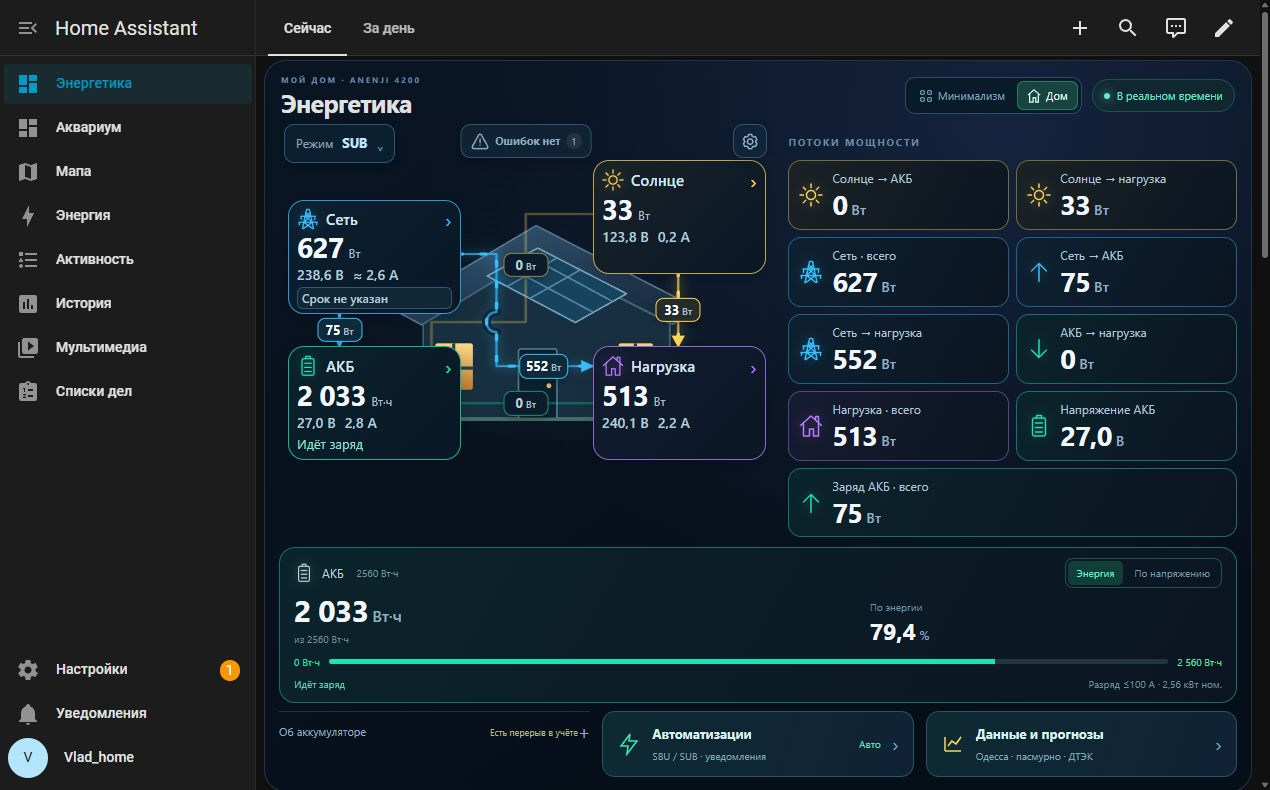
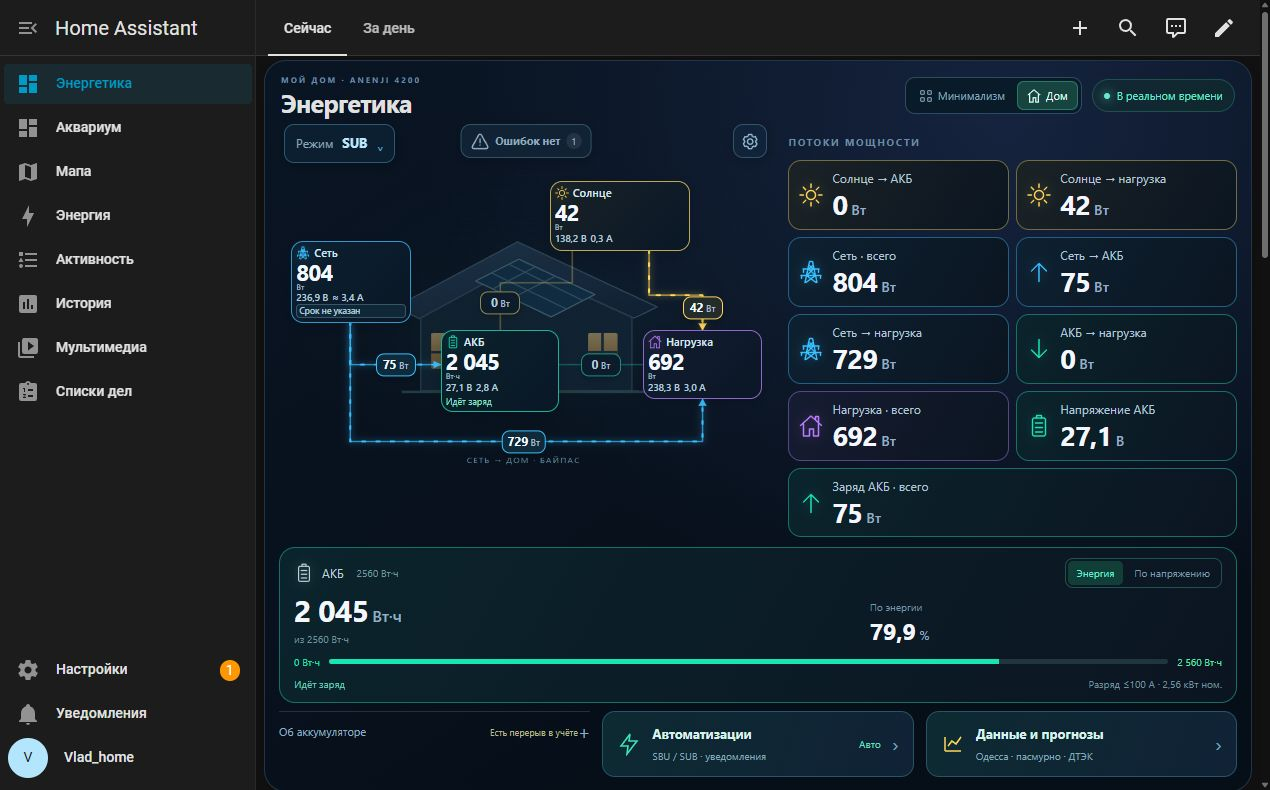
Restore reference house layout with wider battery to load spacing

diff --git a/energetika-card.js b/energetika-card.js
@@ -9,7 +9,7 @@ export function formatRuntime(minutes) {
   const total=Math.floor(minutes);
   return total===0?'0 мин':`${Math.floor(total/60)} ч ${String(total%60).padStart(2,'0')} мин`;
 }
-/* Energetika 2.12.1 — local Home Assistant card, no external dependencies. */
+/* Energetika 2.12.2 — local Home Assistant card, no external dependencies. */
 const ROOT = 'sensor.anenji_4200_protocol_1_';
 const SOURCE_MODES = [
   {code:'UTI', option:'Utility First (UTI)', description:'Сеть в приоритете'},
@@ -52,14 +52,16 @@ const value = (key, unit = 'Вт') => `<span data-value="${key}">—</span><span
 // Both views use the same elements, live values and graph handlers.
 const VISUAL_LAYOUTS = {
   minimal:{
+    size:[440,300],
     nodes:{grid:[8,0,164],solar:[268,0,164],battery:[8,154,164],load:[268,154,164]},
     flows:{grid_battery:['M54 114V154',54,134],pv_battery:['M268 54H220V135H136V154',220,105],pv_load:['M350 114V154',350,134],grid_load:['M172 54H194V125C182 125 182 145 194 145V174H268',230,174],battery_load:['M172 211H268',220,211]},
     crossing:'M194 125C182 125 182 145 194 145',
   },
   home:{
-    nodes:{grid:[8,40,154],solar:[280,0,154],battery:[8,186,154],load:[280,186,154]},
-    flows:{grid_battery:['M54 154V186',54,170],pv_battery:['M280 54H220V162H136V186',220,105],pv_load:['M356 114V186',356,150],grid_load:['M162 94H194V152C182 152 182 172 194 172V206H280',236,206],battery_load:['M162 243H280',220,243]},
-    crossing:'M194 152C182 152 182 172 194 172',
+    size:[720,500],
+    nodes:{grid:[18,130,174,132],solar:[395,34,205,112],battery:[236,274,172,132],load:[531,274,174,112]},
+    flows:{grid_battery:['M104 262V330H236',170,330],pv_battery:['M428 146V198H323V274',323,230],pv_load:['M540 146V218H618V274',618,238],grid_load:['M104 262V454H618V386',357,454],battery_load:['M408 330H531',469.5,330]},
+    crossing:'',
   },
 };
 
@@ -103,10 +105,10 @@ class EnergetikaCard extends HTMLElement {
     return `<button class="tile ${color}" data-key="${key}" title="Открыть историю: ${title}">${icon(ic)}<span class="tile-body"><span class="tile-title">${title}</span><strong>${value(key)}</strong><small>${subtitle}</small></span><span class="arrow">›</span></button>`;
   }
   _houseScene() {
-    return `<svg class="house-scene" viewBox="0 0 440 300" aria-hidden="true" focusable="false">
+    return `<svg class="house-scene" viewBox="0 0 720 500" preserveAspectRatio="none" aria-hidden="true" focusable="false">
       <defs><linearGradient id="house-roof" x2="1" y2="1"><stop stop-color="#365875"/><stop offset="1" stop-color="#14253a"/></linearGradient><linearGradient id="house-window" x2="0" y2="1"><stop stop-color="#ffdb8a"/><stop offset="1" stop-color="#c07b2b"/></linearGradient><radialGradient id="house-halo"><stop stop-color="#30bfa3" stop-opacity=".22"/><stop offset="1" stop-color="#081421" stop-opacity="0"/></radialGradient></defs>
-      <ellipse cx="248" cy="191" rx="182" ry="108" fill="url(#house-halo)"/>
-      <g transform="translate(-48 -40) scale(.8)" stroke-linejoin="round">
+      <ellipse cx="365" cy="280" rx="280" ry="150" fill="url(#house-halo)"/>
+      <g stroke-linejoin="round">
         <path d="M170 237 348 132 552 237 518 255 348 170 205 256Z" fill="url(#house-roof)" stroke="#557890" stroke-width="2"/>
         <path d="M207 255v118h308V254L348 170Z" fill="#172f40" stroke="#426376" stroke-width="2"/>
         <path d="M210 373h315" stroke="#557f82" stroke-width="3"/>
@@ -120,16 +122,19 @@ class EnergetikaCard extends HTMLElement {
   }
   _applyVisualMode() {
     const r=this.shadowRoot,layout=VISUAL_LAYOUTS[this._visualMode];
+    const [boxWidth,boxHeight]=layout.size;
     r.querySelector('.shell').dataset.visual=this._visualMode;
+    r.querySelector('svg.diagram').setAttribute('viewBox',`0 0 ${boxWidth} ${boxHeight}`);
     r.querySelectorAll('[data-visual-mode]').forEach(button=>button.setAttribute('aria-pressed',String(button.dataset.visualMode===this._visualMode)));
-    for(const [key,[x,y,width]] of Object.entries(layout.nodes)){
+    for(const [key,[x,y,width,height=114]] of Object.entries(layout.nodes)){
       const node=r.querySelector(`.node[data-key="${key}"]`);
-      node.style.left=x/440*100+'%';node.style.top=y/300*100+'%';node.style.width=width/440*100+'%';
+      node.style.left=x/boxWidth*100+'%';node.style.top=y/boxHeight*100+'%';node.style.width=width/boxWidth*100+'%';
+      node.style.height=height/boxHeight*100+'%';node.style.setProperty('--node-height',height/boxHeight*100+'%');
     }
     for(const [key,[path,x,y]] of Object.entries(layout.flows)){
       const flow=r.querySelector(`g.flow[data-flow="${key}"]`);
       flow.querySelectorAll('.track,.wire,.moving').forEach(line=>line.setAttribute('d',path));
-      const label=r.querySelector(`.flow-label[data-flow="${key}"]`);label.style.left=x/440*100+'%';label.style.top=y/300*100+'%';
+      const label=r.querySelector(`.flow-label[data-flow="${key}"]`);label.style.left=x/boxWidth*100+'%';label.style.top=y/boxHeight*100+'%';
     }
     r.querySelector('.crossing-gap').setAttribute('d',layout.crossing);
   }
@@ -201,6 +206,12 @@ class EnergetikaCard extends HTMLElement {
       @media(max-width:750px){.header-tools{gap:6px}.header-tools .live{width:19px;height:19px;justify-content:center;padding:0}.header-tools [data-live-text]{position:absolute;width:1px;height:1px;overflow:hidden;clip-path:inset(50%);white-space:nowrap}.visual-switch{padding:2px;border-radius:8px}.visual-switch button{min-height:27px;padding:3px 7px;font-size:10px;gap:4px}.visual-switch button svg{width:12px;height:12px}}
       @media(max-width:390px){.header-tools{gap:4px}.visual-switch button{padding:3px 5px;gap:3px}.visual-switch button svg{display:none}}
       @media(orientation:landscape) and (min-width:640px) and (max-height:600px){.header-tools{position:absolute;top:5px;left:145px;right:auto;gap:0}.header-tools .live{display:none}.visual-switch{padding:1px;border-radius:7px}.visual-switch button{min-height:24px;padding:2px 7px;font-size:10px;gap:4px}.visual-switch button svg{width:12px;height:12px}.shell[data-visual=home] .diagram-stage>.node{height:38%!important}.shell[data-visual=home] .node>.node-metrics{gap:4px}}
+      /* The Home view follows the original house scene, with a wider battery-to-load gap. */
+      .home-route-caption{display:none;fill:#68869d;font-size:12px;letter-spacing:2px;text-anchor:middle}.shell[data-visual=home] .home-route-caption{display:block}.shell[data-visual=home] .house-scene{opacity:.45}.shell[data-visual=home] .diagram-stage{height:clamp(310px,38dvh,340px);min-height:310px;max-height:none;aspect-ratio:auto}
+      .shell[data-visual=home] .diagram-stage>.node{height:var(--node-height)!important;padding:4px;gap:1px;border-radius:12px}.shell[data-visual=home] .node-heading{min-height:14px;gap:4px}.shell[data-visual=home] .node-heading .node-name{font-size:11px}.shell[data-visual=home] .node-symbol>.icon,.shell[data-visual=home] .node-symbol>.grid-cross{width:14px;height:14px}.shell[data-visual=home] .node-chevron{display:none}.shell[data-visual=home] .node-reading{flex-wrap:wrap;gap:0 3px}.shell[data-visual=home] .node-reading .node-value{font-size:22px;line-height:1}.shell[data-visual=home] .node-reading .node-unit{width:100%;font-size:8px;line-height:1.1}.shell[data-visual=home] .node>.node-metrics{font-size:9.5px;line-height:1.1;gap:4px}.shell[data-visual=home] .node>.node-runtime{font-size:9px;line-height:1.1}.shell[data-visual=home] .node>.grid-timer{font-size:8.5px;line-height:1.1;padding:1px 2px;border-radius:4px}.shell[data-visual=home] .diagram-stage>.flow-label{min-width:40px;font-size:12px;padding:4px 5px}.shell[data-visual=home] .flow-label .flow-unit{font-size:9px}
+      @media(max-width:750px){.shell[data-visual=home] .diagram-stage{height:310px;min-height:310px}}
+      @media(max-width:390px){.shell[data-visual=home] .node-reading .node-value{font-size:20px}.shell[data-visual=home] .node>.node-metrics{font-size:9px;gap:3px}.shell[data-visual=home] .node>.node-runtime{font-size:8.5px}.shell[data-visual=home] .node>.grid-timer{font-size:8px}.shell[data-visual=home] .diagram-stage>.flow-label{min-width:36px;font-size:11px;padding:4px}}
+      @media(orientation:landscape) and (min-width:640px) and (max-height:600px){.shell[data-visual=home] .diagram-stage{height:100%;min-height:0}.shell[data-visual=home] .diagram-stage>.node{min-height:50px;padding:2px;gap:0;border-radius:8px}.shell[data-visual=home] .diagram-stage>.node[data-key=battery],.shell[data-visual=home] .diagram-stage>.node[data-key=grid]{min-height:60px}.shell[data-visual=home] .node-heading{min-height:12px;gap:3px}.shell[data-visual=home] .node-heading .node-name{font-size:10px}.shell[data-visual=home] .node-symbol>.icon,.shell[data-visual=home] .node-symbol>.grid-cross{width:12px;height:12px}.shell[data-visual=home] .node-reading{flex-wrap:nowrap;gap:2px}.shell[data-visual=home] .node-reading .node-value{font-size:18px}.shell[data-visual=home] .node-reading .node-unit{width:auto;font-size:8px}.shell[data-visual=home] .node>.node-metrics{font-size:8.5px;gap:3px}.shell[data-visual=home] .node>.node-runtime{font-size:8.5px}.shell[data-visual=home] .node>.grid-timer{font-size:8px;padding:0 2px}.shell[data-visual=home] .diagram-stage>.flow-label{min-width:32px;padding:2px 3px;font-size:10px}.shell[data-visual=home] .flow-label .flow-unit{font-size:8px}}
     </style>
     <ha-card class="shell"><div class="first-screen"><header><div class="energy-heading"><div class="eyebrow">МОЙ ДОМ · ANENJI 4200</div><h1>Энергетика</h1><div class="sub">Солнце, сеть и энергия вашего дома</div></div><div class="header-tools"><div class="visual-switch" role="group" aria-label="Вид энергомониторинга"><button data-visual-mode="minimal" aria-pressed="true" title="Крупные плитки и простая схема"><svg viewBox="0 0 16 16" fill="none" stroke="currentColor" stroke-width="1.3" aria-hidden="true"><rect x="2" y="2" width="4" height="4" rx="1"/><rect x="10" y="2" width="4" height="4" rx="1"/><rect x="2" y="10" width="4" height="4" rx="1"/><rect x="10" y="10" width="4" height="4" rx="1"/></svg>Минимализм</button><button data-visual-mode="home" aria-pressed="false" title="Дом и анимированные потоки энергии"><svg viewBox="0 0 16 16" fill="none" stroke="currentColor" stroke-width="1.3" aria-hidden="true"><path d="m1 7 7-6 7 6M3 6v9h4v-5h3v5h3V6"/></svg>Дом</button></div><span class="live" data-live><span class="dot"></span><span data-live-text>Подключение</span></span></div></header>
     <div class="overview">
@@ -214,6 +225,7 @@ class EnergetikaCard extends HTMLElement {
       ${this._flow('pv_load','M350 114V154','solar')}
       ${this._flow('grid_load','M172 54H194V125C182 125 182 145 194 145V174H268','grid')}
       ${this._flow('battery_load','M172 211H268','battery')}
+      <text class="home-route-caption" x="357" y="489">СЕТЬ → ДОМ · БАЙПАС</text>
     </svg>
       ${this._node('grid','Сеть','grid',8,0,164,'grid')}
       ${this._node('solar','Солнце','sun',268,0,164,'solar')}
@@ -262,6 +274,7 @@ class EnergetikaCard extends HTMLElement {
       this._visualMode=button.dataset.visualMode;
       try {localStorage.setItem('energetika.visual-mode',this._visualMode);} catch {}
       this._applyVisualMode();
+      this._update();
     }));
     this._applyVisualMode();
     const gridTimer=root.querySelector('[data-grid-timer]');
@@ -350,7 +363,7 @@ class EnergetikaCard extends HTMLElement {
     const minutes=this._number('runtime');
     const power=this._number('battery_power');
     const timeText=minutes!==null?formatRuntime(minutes):power!==null&&power>5?'Идёт заряд':power!==null&&Math.abs(power)<=5?'Нет разряда':'Нет данных';
-    r.querySelectorAll('[data-runtime]').forEach(el=>el.textContent=minutes!==null?`До 20% · ${timeText}`:timeText);
+    r.querySelectorAll('[data-runtime]').forEach(el=>el.textContent=minutes!==null?`${this._visualMode==='home'&&el.closest('.node')?'20%':'До 20%'} · ${timeText}`:timeText);
     const energy=states[this._entities.battery],message=r.querySelector('[data-calibration]');
     const uncalibrated=this._number('battery')===null;
     const gap=energy?.attributes?.data_gap===true;

diff --git a/build_deploy.py b/build_deploy.py
@@ -39,7 +39,7 @@ def main():
     control_module.install(root)
     backup=root/('energetika-ui-backup-'+datetime.now(timezone.utc).strftime('%%Y%%m%%dT%%H%%M%%SZ'))
     backup.mkdir()
-    for name,destination in [('energetika.yaml','energetika.yaml'),('energetika-card.js','www/energetika-card.js'),('energetika-card.js','www/energetika-card-2.12.1.js'),('energetika-history.js','www/energetika-history.js'),('energetika-settings.js','www/energetika-settings.js'),('energetika-automation.js','www/energetika-automation.js'),('energetika-data.js','www/energetika-data.js'),('energetika-alerts.js','www/energetika-alerts.js'),('energetika-hourly.js','www/energetika-hourly.js'),('energetika-dtek.js','www/energetika-dtek.js')]+[(name,name) for name in files if name.startswith('custom_components/energetika_dtek/')]:
+    for name,destination in [('energetika.yaml','energetika.yaml'),('energetika-card.js','www/energetika-card.js'),('energetika-card.js','www/energetika-card-2.12.2.js'),('energetika-history.js','www/energetika-history.js'),('energetika-settings.js','www/energetika-settings.js'),('energetika-automation.js','www/energetika-automation.js'),('energetika-data.js','www/energetika-data.js'),('energetika-alerts.js','www/energetika-alerts.js'),('energetika-hourly.js','www/energetika-hourly.js'),('energetika-dtek.js','www/energetika-dtek.js')]+[(name,name) for name in files if name.startswith('custom_components/energetika_dtek/')]:
         path=root/destination
         if path.is_symlink():raise SystemExit('Refusing symlink: '+str(path))
         path.parent.mkdir(parents=True,exist_ok=True)
@@ -51,7 +51,7 @@ def main():
         temporary.write_text(files[name],encoding='utf-8')
         temporary.replace(path)
     print('UI and YAML installed; backup:',backup)
-    print('Restart Home Assistant; update resource URL to /local/energetika-card-2.12.1.js')
+    print('Restart Home Assistant; update resource URL to /local/energetika-card-2.12.2.js')
 if __name__=='__main__': main()
 ''' % payload
 Path('.deploy').mkdir(exist_ok=True)

diff --git a/docs/INSTALL.uk.md b/docs/INSTALL.uk.md
@@ -35,7 +35,7 @@ homeassistant:
 
 Не створюйте другу секцію `homeassistant`. Якщо пакети вже підключені каталогом, скористайтеся наявною схемою.
 
-Скопіюйте **вісім** файлів `energetika-card.js`, `energetika-history.js`, `energetika-settings.js`, `energetika-automation.js`, `energetika-data.js`, `energetika-alerts.js`, `energetika-hourly.js` та `energetika-dtek.js` до `www`. Створіть у `www` також копію `energetika-card.js` з назвою `energetika-card-2.12.1.js` для головного ресурсу. Головна картка імпортує історію та налаштування відносними шляхами. У Налаштування → Інформаційні панелі → Ресурси додайте `/local/energetika-card-2.12.1.js`, тип **Модуль JavaScript**. Додаткові ресурси для імпортованих модулів не потрібні.
+Скопіюйте **вісім** файлів `energetika-card.js`, `energetika-history.js`, `energetika-settings.js`, `energetika-automation.js`, `energetika-data.js`, `energetika-alerts.js`, `energetika-hourly.js` та `energetika-dtek.js` до `www`. Створіть у `www` також копію `energetika-card.js` з назвою `energetika-card-2.12.2.js` для головного ресурсу. Головна картка імпортує історію та налаштування відносними шляхами. У Налаштування → Інформаційні панелі → Ресурси додайте `/local/energetika-card-2.12.2.js`, тип **Модуль JavaScript**. Додаткові ресурси для імпортованих модулів не потрібні.
 
 При першому створенні `www` може знадобитися перезапуск. Перевірте конфігурацію через інструменти YAML перед перезапуском.
 
@@ -83,7 +83,7 @@ homeassistant:
 
 Для іншої установки адаптуйте координати міста, часовий пояс, потужність та кут панелей, діапазон фону, резерв і префікси. Значення 2,52 кВт задано у формулах YAML та підписах JS. Усі сутності пакета мають префікс `energetika_`; головні: `sensor.energetika_solar_strategy`, `input_boolean.energetika_solar_auto`, `input_boolean.energetika_solar_fault`, `input_text.energetika_solar_result`.
 
-Після оновлення перевірте YAML, перезапустіть HA, оновіть ресурс картки до **2.12.1** та перезавантажте браузер. Перевіряйте готовність за реальними даними; не змінюйте режими інвертора, зарядні налаштування або показання датчиків лише для демонстрації.
+Після оновлення перевірте YAML, перезапустіть HA, оновіть ресурс картки до **2.12.2** та перезавантажте браузер. Перевіряйте готовність за реальними даними; не змінюйте режими інвертора, зарядні налаштування або показання датчиків лише для демонстрації.
 
 Створіть окрему панель, відкрийте редагування → текстовий редактор і вставте `dashboard-energetika.yaml`. Збережіть та завершіть редагування. Оновіть сторінку й фронтенд телефонного застосунку, щоб завантажився новий JS.
 
@@ -213,7 +213,7 @@ REST-запит тепер також отримує погодинні `tempera
 
 Текст плашок і потоків тепер є звичайними HTML-елементами над SVG зі стрілками. На ширині телефону 411 px напруга й струм мають розмір 14 px, таймер АКБ — 13 px, мережі — 12 px; для ширини до 390 px передбачено компактніші відступи й текст. Схема має мінімальну висоту 270 px, тому браузер не стискає підписи до нерозбірливого розміру. Нижні дев'ять плиток і блок АКБ збережені. [Знімок реального HA в області 411 × 850](screenshots/mobile-energy-readable.jpg) показує всі ці показники на першому екрані. За іншого масштабу шрифтів або меншої висоти доступна звичайна прокрутка.
 
-Оновіть `energetika-card.js`, ресурс до `/local/energetika-card-2.12.1.js` і перезавантажте сторінку або екран Companion App. Це зміна інтерфейсу; перезапуск HA для неї не потрібен.
+Оновіть `energetika-card.js`, ресурс до `/local/energetika-card-2.12.2.js` і перезавантажте сторінку або екран Companion App. Це зміна інтерфейсу; перезапуск HA для неї не потрібен.
 
 ## Горизонтальний телефон і комп’ютер · 2.10.2
 
@@ -227,7 +227,7 @@ REST-запит тепер також отримує погодинні `tempera
 
 ## Графіки з плиток і окремі дані · 2.11.0
 
-Замініть `energetika-card.js`, `energetika-history.js`, `energetika-automation.js` та додайте новий **`energetika-data.js`** до `www`. Змініть ресурс на `/local/energetika-card-2.12.1.js` і перезавантажте екран. Головна картка імпортує нові версії модулів сама. Перезапуск HA та зміна YAML для цього оновлення не потрібні.
+Замініть `energetika-card.js`, `energetika-history.js`, `energetika-automation.js` та додайте новий **`energetika-data.js`** до `www`. Змініть ресурс на `/local/energetika-card-2.12.2.js` і перезавантажте екран. Головна картка імпортує нові версії модулів сама. Перезапуск HA та зміна YAML для цього оновлення не потрібні.
 
 Мережа → навантаження проходить ламаною лінією через середину схеми. На перетині із сонячним зарядом АКБ є вигин із проміжком; лінії не позначають спільний електричний вузол. Число на новій лінії відкриває історію мережевого живлення будинку.
 
@@ -239,12 +239,12 @@ REST-запит тепер також отримує погодинні `tempera
 
 [Схема з центральною лінією](screenshots/energy-central-flows.jpg) · [Графік АКБ](screenshots/battery-flow-dialog.jpg) · [Дані та прогнози](screenshots/data-forecast-panel.jpg).
 
-## Два види схеми · 2.12.1
+## Два види схеми · 2.12.2
 
-Вгорі головної картки є перемикач **«Минимализм / Дом»**. Перший вид зберігає великі плитки й просту схему. Другий повертає векторний будинок з панелями та освітленими вікнами на фоні: мережа ліворуч, сонце вгорі праворуч, АКБ та навантаження внизу. Лінії переміщуються разом із плашками; перетин мережі й сонячного заряду зберігає вигин із проміжком.
+Вгорі головної картки є перемикач **«Минимализм / Дом»**. Перший вид зберігає великі плитки й просту схему. Другий повторює початковий ескіз: мережа ліворуч від будинку, сонце вгорі праворуч, АКБ ближче до середини та навантаження праворуч. Байпас проходить під будинком. АКБ посунута ліворуч: між її краєм і навантаженням 123 одиниці схеми замість початкових 81, приблизно 67 px в області 411 px. Підпис потужності стоїть посередині цього проміжку й не перекриває плашки. Лінії переміщуються разом із ними. У мінімалістичному виді залишається центральна лінія мережі з вигином на перетині.
 
 Обидва види користуються тими самими сутностями, графіками й елементами даних. Перемикання не перебудовує картку. Перевага зберігається локально в `energetika.visual-mode`, окремо від способу оцінки АКБ. На новому пристрої початковий вид — «Минимализм». На телефоні стан зв’язку показаний кольоровою крапкою, а текстові показники залишаються HTML, тому не зменшуються разом із SVG.
 
-Для оновлення замініть `energetika-card.js` у `www` і створіть поруч його копію **`energetika-card-2.12.1.js`**. Змініть наявний ресурс на `/local/energetika-card-2.12.1.js` і перезавантажте панель. Використовуйте один головний ресурс картки. Офлайн-встановлювач створює обидва файли; імпорти інших модулів залишаються відносними. Зміна імені основного ресурсу усуває проблему старої копії у кеші, помічену під час встановлення. Перезапуск HA для цього інтерфейсного оновлення не потрібен.
+Для оновлення замініть `energetika-card.js` у `www` і створіть поруч його копію **`energetika-card-2.12.2.js`**. Змініть наявний ресурс на `/local/energetika-card-2.12.2.js` і перезавантажте панель. Використовуйте один головний ресурс картки. Офлайн-встановлювач створює обидва файли; імпорти інших модулів залишаються відносними. Зміна імені основного ресурсу усуває проблему старої копії у кеші, помічену під час встановлення. Перезапуск HA для цього інтерфейсного оновлення не потрібен.
 
 [Мінімалізм на телефоні](screenshots/mobile-minimal-view.jpg) · [Будинок на телефоні](screenshots/mobile-home-view.jpg) · [Горизонтальний будинок](screenshots/landscape-home-view.jpg) · [Будинок на комп’ютері](screenshots/desktop-home-view.jpg).
